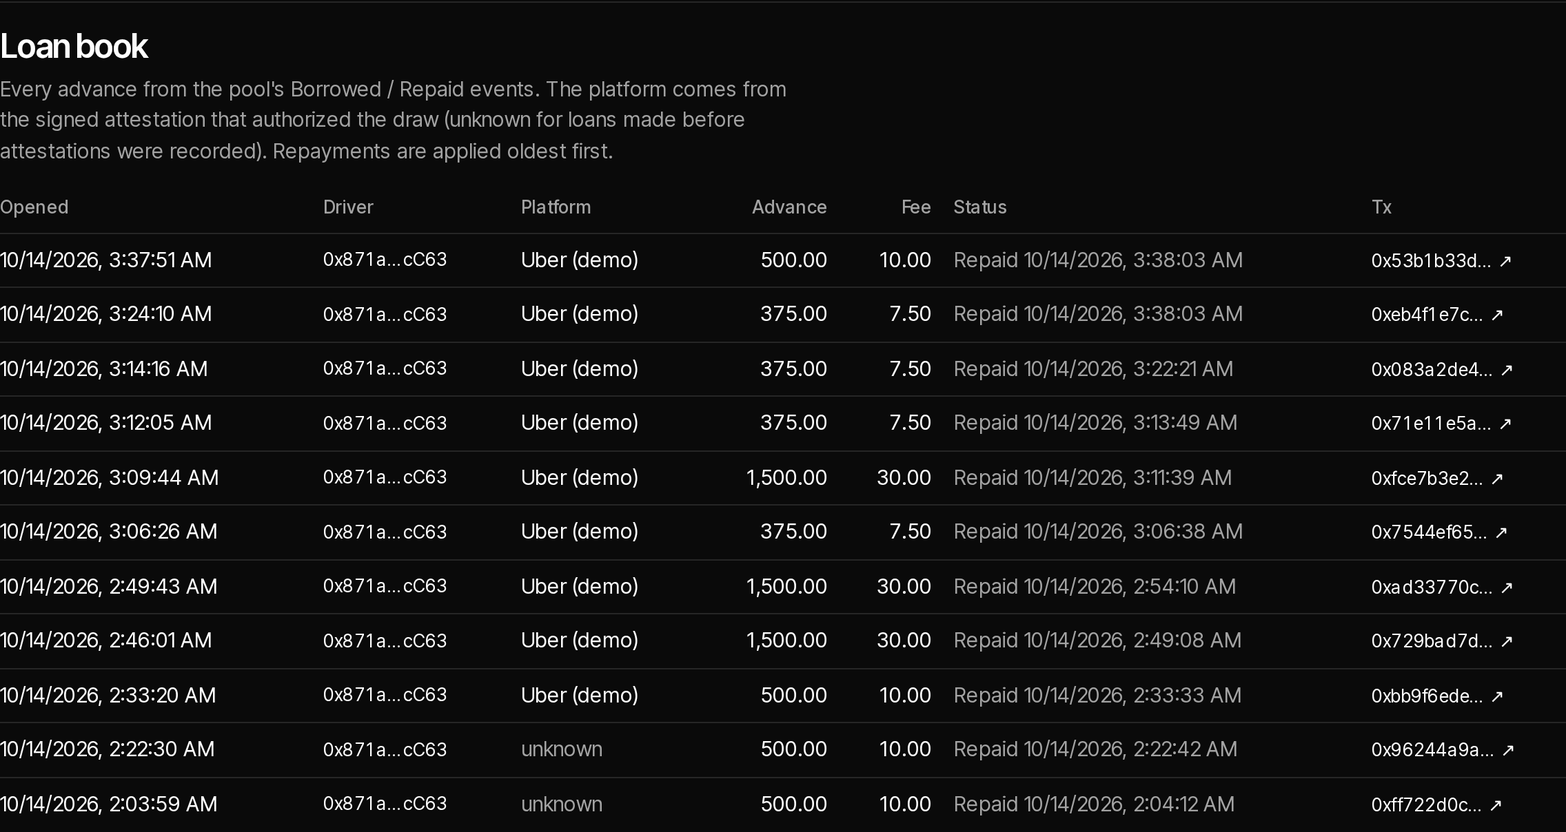
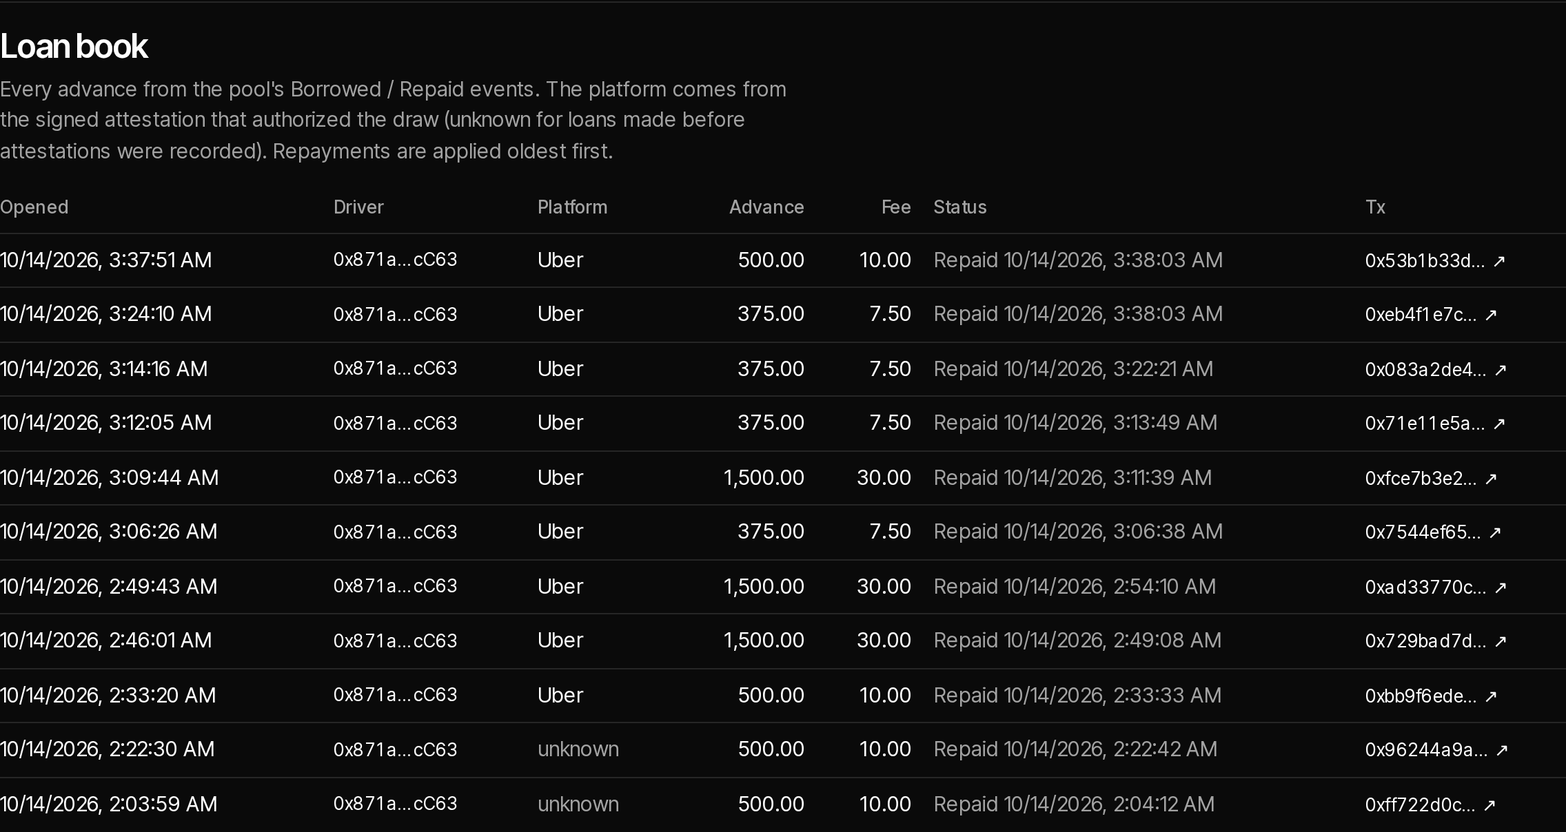
slides: place the v7 dark-theme captures (floating phones, framed panels, ≤2 per slide); proof with contracts + 402 panels; plain footers; dark home crop

diff --git a/deck/project/slides/judge-qa.html b/deck/project/slides/judge-qa.html
@@ -14,7 +14,7 @@
 <div style="display:flex;gap:24px;align-items:baseline"><p style="width:48px;font-family:'Inter Tight', Arial, sans-serif;font-size:24px;color:#E5A823">04</p><p style="flex:1;font-size:32px;font-weight:500;line-height:1.3;color:#FFFFFF">If the peso appreciates, can everyone redeem?</p></div>
 <div style="display:flex;gap:24px;align-items:baseline"><p style="width:48px;font-family:'Inter Tight', Arial, sans-serif;font-size:24px;color:#E5A823">08</p><p style="flex:1;font-size:32px;font-weight:500;line-height:1.3;color:#FFFFFF">What stops sponsor drain, and what's left before real money?</p></div>
 </div>
-<p style="position:absolute;left:128px;bottom:64px;width:1200px;font-family:'Inter Tight', Arial, sans-serif;font-size:24px;color:#8A8A8A;text-transform:uppercase;letter-spacing:3px;font-weight:600">Mercado · built on Tempo</p>
+<p style="position:absolute;left:128px;bottom:64px;width:1200px;font-family:'Inter Tight', Arial, sans-serif;font-size:24px;color:#8A8A8A;text-transform:uppercase;letter-spacing:3px;font-weight:600">Mercado</p>
 <p style="position:absolute;right:128px;bottom:64px;width:120px;font-family:'Inter Tight', Arial, sans-serif;font-size:24px;text-align:right;color:#8A8A8A;text-transform:uppercase;letter-spacing:3px;font-weight:600">A4</p>
 <aside>Appendix for Q&amp;A (from review/PRODUCT.md, v0.2). Keep answers conditional where v2 is still a proposal. 01: v1 is live on testnet: issuance, exchange inventory, unsecured lending and xMXN HTTP payment settlement. Tempo gives native token transfers, memos and fee sponsorship; MPP makes an HTTP response payable with a verified receipt. v2 adds the proposed collateral and mint/burn exchange; the design is not yet evidence of a working system. 02: The intended minter is an institution or sophisticated collateral owner; debt is in MXN, valued through an oracle. On Moderato every collateral is a test asset: no fiat redemption, no peg, no real Treasury or equity backing. The driver borrows existing xMXN; they don't open the institutional mint position. 03: Production collateral would carry its own external yield; the vault runs no strategy. Our sOUSD is a demo ERC-4626 with admin-funded accrual, not real income. Review requires donation-resistant accounting before v2 is accepted; a rising share price alone proves neither earned yield nor redeemable assets. 04: No automatic guarantee. For example, OUSD received at 18.37 MXN/USD backs the xMXN it minted only while the rate stays there: if the peso strengthens, the same OUSD covers fewer pesos, and only the equity buffer absorbs the gap. v2 must specify and enforce reserve coverage, a redemption stop or haircut, and recapitalization; until those pass stress tests the vAMM stays in progress. A circuit breaker can stop an unsafe withdrawal; it can't create missing backing. 05: v1 uses three separate pools: CDP collateral, seeded exchange inventory and lender-supplied xMXN. v2 proposes separate accounting for CDP collateral and a protocol OUSD reserve; since xMXN is fungible, redemptions must be bounded by aggregate reserve liabilities. The advance pool stays separately funded and unsecured. 06: In this demo, admin-set prices and income fixtures are explicit trust assumptions. Haircuts and debt ceilings cap exposure but can't make a made-up price or income true. Signed loan limits stop replay and over-drawing, not Sybil fraud or default. 07: It proves verified testnet settlement for the API order; airtime fulfillment is always SIMULATED. Tested single-process recovery and same-order retries avoid a second settlement; that's bounded evidence, not exactly-once. A partner paying for a quote buys the API response, not the swap or a fill after expiry. 08: The demo sponsor has target, function and spender limits, fee caps and process-local quotas; unsigned requests can still use an eligible sender's quota, and restarts reset budgets. It pays fees, not purchases. Before real money: tested v2 solvency and valuation, reliable oracles and liquidity, real asset and fulfillment arrangements, robust recovery, and legal and compliance review.</aside>
 </section>

diff --git a/deck/project/slides/proof.html b/deck/project/slides/proof.html
@@ -1,10 +1,10 @@
 <section id="proof" data-transition="fade" style="background:#0A0A0A;color:#FFFFFF;font-family:'Inter Tight', Arial, sans-serif;padding:128px 128px 160px">
 <p style="position:absolute;left:128px;top:128px;width:900px;font-family:'Inter Tight', Arial, sans-serif;font-size:24px;color:#B3B3B3;text-transform:uppercase;letter-spacing:3px;font-weight:600">■ 13 · proof</p>
-<h2 data-build-in="rise 1" style="position:absolute;left:128px;top:176px;width:1664px;font-family:'Anton', 'Arial Narrow', sans-serif;font-size:112px;font-weight:400;line-height:0.9;letter-spacing:-1px;text-transform:uppercase;color:#FFFFFF">Follow the money. <span style="color:#E5A823">Check the receipt.</span></h2>
-<p data-build-in="rise 2" style="position:absolute;left:128px;top:300px;width:1664px;font-size:32px;font-weight:500;color:#C9C9C9">Open the payment trail, contract code, and paid API responses.</p>
-<img data-build-in="fade 2" src="/_blob/2851bcdcd92e61415de79e3f6dcbeaed" alt="Mercado Contracts page: 'Cada contrato, verificado.' 13 live contracts with source verified on Sourcify, the testnet trust model and control paths per contract" style="position:absolute;left:128px;top:420px;width:808px;height:382px;object-fit:cover;border-radius:16px;border:1px solid rgba(255,255,255,0.14);box-shadow:0 24px 64px rgba(0,0,0,0.55)">
-<img data-build-in="fade 3" src="/_blob/d538a395cc110c9ecb50c7d00634874f" alt="Mercado Developers page: 'Mercado APIs over HTTP 402', pay per call with MPP, no API key, account or card" style="position:absolute;left:984px;top:420px;width:808px;height:382px;object-fit:cover;border-radius:16px;border:1px solid rgba(255,255,255,0.14);box-shadow:0 24px 64px rgba(0,0,0,0.55)">
-<p style="position:absolute;left:128px;bottom:64px;width:1200px;font-family:'Inter Tight', Arial, sans-serif;font-size:24px;color:#8A8A8A;text-transform:uppercase;letter-spacing:3px;font-weight:600">Mercado · built on Tempo</p>
+<h2 data-build-in="rise 1" style="position:absolute;left:128px;top:180px;width:1100px;font-family:'Anton', 'Arial Narrow', sans-serif;font-size:96px;font-weight:400;line-height:0.95;letter-spacing:-1px;text-transform:uppercase;color:#FFFFFF">Follow the money.<br><span style="color:#E5A823">Check the receipt.</span></h2>
+<p data-build-in="rise 2" style="position:absolute;left:128px;top:390px;width:1100px;font-size:36px;font-weight:500;line-height:1.3;color:#C9C9C9">Open the payment trail, contract code, and paid API responses.</p>
+<img data-build-in="fade 3" src="/_blob/d65192b29a311b0be1e8354470d93639" alt="Mercado Contracts page: each contract with its source verified, exact match" style="position:absolute;left:128px;top:560px;width:1164px;height:276px;object-fit:contain;border-radius:16px;border:1px solid rgba(255,255,255,0.14);box-shadow:0 24px 64px rgba(0,0,0,0.55);background:#0A0A0A">
+<img data-build-in="fade 4" src="/_blob/fe443887011dc6ed7cab53dc0d034df9" alt="Mercado Developers page: an HTTP 402 payment challenge, raw and decoded" style="position:absolute;left:1362px;top:220px;width:430px;height:660px;object-fit:contain;border-radius:16px;border:1px solid rgba(255,255,255,0.14);box-shadow:0 24px 64px rgba(0,0,0,0.55);background:#0A0A0A">
+<p style="position:absolute;left:128px;bottom:64px;width:1200px;font-family:'Inter Tight', Arial, sans-serif;font-size:24px;color:#8A8A8A;text-transform:uppercase;letter-spacing:3px;font-weight:600">Mercado</p>
 <p style="position:absolute;right:128px;bottom:64px;width:120px;font-family:'Inter Tight', Arial, sans-serif;font-size:24px;text-align:right;color:#8A8A8A;text-transform:uppercase;letter-spacing:3px;font-weight:600">13</p>
 <aside>Open a demonstrated payment, follow its receipt, and inspect the contract and its admin powers. The paid API trace separately shows the request, payment challenge, and returned response; we are showing inspectable execution, not a production security certification.</aside>
 </section>

diff --git a/deck/project/slides/p-card.html b/deck/project/slides/p-card.html
@@ -5,7 +5,8 @@
 <h2 data-build-in="rise 1" style="font-family:'Anton', 'Arial Narrow', sans-serif;font-size:88px;font-weight:400;line-height:0.95;letter-spacing:-1px;text-transform:uppercase;color:#FFFFFF">Tap to pay at the corner store.</h2>
 <p data-build-in="rise 2" style="font-size:36px;font-weight:500;line-height:1.3;color:#C9C9C9">Approve the amount. See the receipt.</p>
 </div>
-<img data-build-in="fade 4" src="/_blob/799674cfbef971fedc672f47cf441da5" data-video="/_blob/1445b77534f54d65c820a9c07a1da6a0" alt="Mercado Card in the Mercado app" style="position:absolute;left:1112px;top:300px;width:680px;height:430px;object-fit:contain;object-position:top;border-radius:16px;border:1px solid rgba(255,255,255,0.14);box-shadow:0 24px 64px rgba(0,0,0,0.55);background:#111111">
+<img data-build-in="fade 4" src="/_blob/b737d51eaf57d19382bf2e5819e41d8a" alt="" style="position:absolute;left:1112px;top:240px;width:256px;height:560px;object-fit:contain">
+<img data-build-in="fade 5" src="/_blob/799674cfbef971fedc672f47cf441da5" data-video="/_blob/1445b77534f54d65c820a9c07a1da6a0" alt="Screen recording: Javier draws an advance, his frozen card is declined, he unfreezes it and a tap payment goes through once" style="position:absolute;left:1408px;top:330px;width:384px;height:240px;object-fit:contain;border-radius:16px;border:1px solid rgba(255,255,255,0.14);box-shadow:0 24px 64px rgba(0,0,0,0.55);background:#0A0A0A">
 <p style="position:absolute;left:128px;bottom:64px;width:1200px;font-family:'Inter Tight', Arial, sans-serif;font-size:24px;color:#8A8A8A;text-transform:uppercase;letter-spacing:3px;font-weight:600">Mercado</p>
 <p style="position:absolute;right:128px;bottom:64px;width:120px;font-family:'Inter Tight', Arial, sans-serif;font-size:24px;text-align:right;color:#8A8A8A;text-transform:uppercase;letter-spacing:3px;font-weight:600">08</p>
 <aside>The same driver approves the shop and amount, and the payment moves pesos already in that wallet. A frozen card rejects the charge; this is a Mercado merchant payment flow, not an issued Visa or Mastercard.</aside>

diff --git a/deck/project/slides/j3-advance.html b/deck/project/slides/j3-advance.html
@@ -6,7 +6,8 @@
 <p data-build-in="rise 2" style="font-size:36px;font-weight:500;line-height:1.3;color:#C9C9C9">Use your earnings history to request an advance.</p>
 </div>
 <p data-build-in="rise 3" style="position:absolute;left:128px;top:700px;width:920px;font-family:'Anton', 'Arial Narrow', sans-serif;font-size:80px;font-weight:400;line-height:0.95;letter-spacing:-1px;text-transform:uppercase;color:#E36A97">Up to 1,500 pesos.</p>
-<img data-build-in="fade 4" src="/_blob/8420a4953c276f4335ce337dbdfd9748" alt="Mercado Crédito in the Mercado app" style="position:absolute;left:1112px;top:300px;width:680px;height:430px;object-fit:cover;object-position:top;border-radius:16px;border:1px solid rgba(255,255,255,0.14);box-shadow:0 24px 64px rgba(0,0,0,0.55);background:#111111">
+<img data-build-in="fade 4" src="/_blob/97a80469ede1b9a3e4f7eadca5622980" alt="" style="position:absolute;left:1180px;top:240px;width:256px;height:560px;object-fit:contain">
+<img data-build-in="fade 5" src="/_blob/62da4b713df5ec6a17481c143b73c8c5" alt="" style="position:absolute;left:1500px;top:240px;width:256px;height:560px;object-fit:contain">
 <p style="position:absolute;left:128px;bottom:64px;width:1200px;font-family:'Inter Tight', Arial, sans-serif;font-size:24px;color:#8A8A8A;text-transform:uppercase;letter-spacing:3px;font-weight:600">Mercado</p>
 <p style="position:absolute;right:128px;bottom:64px;width:120px;font-family:'Inter Tight', Arial, sans-serif;font-size:24px;text-align:right;color:#8A8A8A;text-transform:uppercase;letter-spacing:3px;font-weight:600">07</p>
 <aside>Drivers share earnings data, receive an offer, and draw from lender capital within their available limit. Our demonstrated earnings are simulated, the loan is unsecured, and repayment is manual with the fee shown before borrowing.</aside>

diff --git a/deck/project/slides/j2-send.html b/deck/project/slides/j2-send.html
@@ -6,7 +6,8 @@
 <p data-build-in="rise 2" style="font-size:36px;font-weight:500;line-height:1.3;color:#C9C9C9">Your family receives pesos straight into their wallet.</p>
 </div>
 <p data-build-in="rise 3" style="position:absolute;left:128px;top:700px;width:920px;font-family:'Anton', 'Arial Narrow', sans-serif;font-size:80px;font-weight:400;line-height:0.95;letter-spacing:-1px;text-transform:uppercase;color:#E2603F">9,149 pesos received.</p>
-<img data-build-in="fade 4" src="/_blob/8bde02557a560818c475c69518ea312d" alt="Mercado Remesas in the Mercado app" style="position:absolute;left:1112px;top:300px;width:680px;height:430px;object-fit:cover;object-position:top;border-radius:16px;border:1px solid rgba(255,255,255,0.14);box-shadow:0 24px 64px rgba(0,0,0,0.55);background:#111111">
+<img data-build-in="fade 4" src="/_blob/176dfb3b02359d644e7aa932dd427030" alt="" style="position:absolute;left:1180px;top:240px;width:256px;height:560px;object-fit:contain">
+<img data-build-in="fade 5" src="/_blob/bd53a84d14db440f6633cb960a6bb448" alt="" style="position:absolute;left:1500px;top:240px;width:256px;height:560px;object-fit:contain">
 <p style="position:absolute;left:128px;bottom:64px;width:1200px;font-family:'Inter Tight', Arial, sans-serif;font-size:24px;color:#8A8A8A;text-transform:uppercase;letter-spacing:3px;font-weight:600">Mercado</p>
 <p style="position:absolute;right:128px;bottom:64px;width:120px;font-family:'Inter Tight', Arial, sans-serif;font-size:24px;text-align:right;color:#8A8A8A;text-transform:uppercase;letter-spacing:3px;font-weight:600">05</p>
 <aside>Sending five hundred dollars quotes about nine thousand one hundred forty-nine pesos after the exchange fee and size impact. This is wallet delivery, not bank cashout; the exact amount is quoted before sending.</aside>

diff --git a/deck/project/slides/risk.html b/deck/project/slides/risk.html
@@ -5,7 +5,7 @@
 <h2 data-build-in="rise 1" style="font-family:'Anton', 'Arial Narrow', sans-serif;font-size:88px;font-weight:400;line-height:0.95;letter-spacing:-1px;text-transform:uppercase;color:#FFFFFF">Check the backing before you borrow.</h2>
 <p data-build-in="rise 2" style="font-size:36px;font-weight:500;line-height:1.3;color:#C9C9C9">A stronger peso leaves less room to borrow safely.</p>
 </div>
-<img data-build-in="fade 4" src="/_blob/5c8f64994c89242c7fc06c058aa193f1" alt="Risk in the Mercado app" style="position:absolute;left:1112px;top:300px;width:680px;height:430px;object-fit:cover;object-position:top;border-radius:16px;border:1px solid rgba(255,255,255,0.14);box-shadow:0 24px 64px rgba(0,0,0,0.55);background:#111111">
+<img data-build-in="fade 4" src="/_blob/8149ed830f1be3ee794cb3b6aa997d45" alt="" style="position:absolute;left:128px;top:640px;width:1664px;height:229px;object-fit:contain;border-radius:16px;border:1px solid rgba(255,255,255,0.14);box-shadow:0 24px 64px rgba(0,0,0,0.55);background:#0A0A0A">
 <p style="position:absolute;left:128px;bottom:64px;width:1200px;font-family:'Inter Tight', Arial, sans-serif;font-size:24px;color:#8A8A8A;text-transform:uppercase;letter-spacing:3px;font-weight:600">Mercado</p>
 <p style="position:absolute;right:128px;bottom:64px;width:120px;font-family:'Inter Tight', Arial, sans-serif;font-size:24px;text-align:right;color:#8A8A8A;text-transform:uppercase;letter-spacing:3px;font-weight:600">12</p>
 <aside>Peso debt gets harder to cover when the peso strengthens against dollar-valued collateral, so the app shows the effect on backing and individual positions. Positions can be liquidated and exchange redemptions can be restricted or take a haircut; owner-controlled prices and settings remain part of the trust model.</aside>

diff --git a/deck/project/slides/p-global.html b/deck/project/slides/p-global.html
@@ -6,7 +6,7 @@
 <p data-build-in="rise 2" style="font-size:36px;font-weight:500;line-height:1.3;color:#C9C9C9">Send dollars. Deliver pesos straight to their wallet.</p>
 </div>
 <p data-build-in="rise 3" style="position:absolute;left:128px;top:700px;width:920px;font-family:'Anton', 'Arial Narrow', sans-serif;font-size:80px;font-weight:400;line-height:0.95;letter-spacing:-1px;text-transform:uppercase;color:#6F8BF0">176,297 pesos delivered.</p>
-<img data-build-in="fade 4" src="/_blob/a7961f3aa32075face1cba3ced2ab79f" alt="Mercado Global in the Mercado app" style="position:absolute;left:1112px;top:300px;width:680px;height:430px;object-fit:cover;object-position:top;border-radius:16px;border:1px solid rgba(255,255,255,0.14);box-shadow:0 24px 64px rgba(0,0,0,0.55);background:#111111">
+<img data-build-in="fade 4" src="/_blob/f1a39cfb6ae48ac4e30c77ce7ec01636" alt="" style="position:absolute;left:1112px;top:220px;width:626px;height:640px;object-fit:contain;border-radius:16px;border:1px solid rgba(255,255,255,0.14);box-shadow:0 24px 64px rgba(0,0,0,0.55);background:#0A0A0A">
 <p style="position:absolute;left:128px;bottom:64px;width:1200px;font-family:'Inter Tight', Arial, sans-serif;font-size:24px;color:#8A8A8A;text-transform:uppercase;letter-spacing:3px;font-weight:600">Mercado</p>
 <p style="position:absolute;right:128px;bottom:64px;width:120px;font-family:'Inter Tight', Arial, sans-serif;font-size:24px;text-align:right;color:#8A8A8A;text-transform:uppercase;letter-spacing:3px;font-weight:600">06</p>
 <aside>Ten thousand dollars quotes about one hundred seventy-six thousand two hundred ninety-seven pesos in the current example. Buying a signed quote pays for an API response; moving the supplier's money is a separate action.</aside>

diff --git a/deck/project/slides/j1-mint.html b/deck/project/slides/j1-mint.html
@@ -5,7 +5,7 @@
 <h2 data-build-in="rise 1" style="font-family:'Anton', 'Arial Narrow', sans-serif;font-size:88px;font-weight:400;line-height:0.95;letter-spacing:-1px;text-transform:uppercase;color:#FFFFFF">Deposit collateral. Issue pesos.</h2>
 <p data-build-in="rise 2" style="font-size:36px;font-weight:500;line-height:1.3;color:#C9C9C9">Keep earning on assets that pay yield.</p>
 </div>
-<img data-build-in="fade 4" src="/_blob/154c24bb7c0e4698024fa244151a5124" alt="Mercado Mint in the Mercado app" style="position:absolute;left:1112px;top:300px;width:680px;height:430px;object-fit:cover;object-position:top;border-radius:16px;border:1px solid rgba(255,255,255,0.14);box-shadow:0 24px 64px rgba(0,0,0,0.55);background:#111111">
+<img data-build-in="fade 4" src="/_blob/8149ed830f1be3ee794cb3b6aa997d45" alt="" style="position:absolute;left:128px;top:640px;width:1664px;height:229px;object-fit:contain;border-radius:16px;border:1px solid rgba(255,255,255,0.14);box-shadow:0 24px 64px rgba(0,0,0,0.55);background:#0A0A0A">
 <p style="position:absolute;left:128px;bottom:64px;width:1200px;font-family:'Inter Tight', Arial, sans-serif;font-size:24px;color:#8A8A8A;text-transform:uppercase;letter-spacing:3px;font-weight:600">Mercado</p>
 <p style="position:absolute;right:128px;bottom:64px;width:120px;font-family:'Inter Tight', Arial, sans-serif;font-size:24px;text-align:right;color:#8A8A8A;text-transform:uppercase;letter-spacing:3px;font-weight:600">04</p>
 <aside>Institutions keep eligible collateral in a vault and borrow newly issued pesos against it; yield-bearing collateral can keep accruing while deposited. This is secured debt, and a position can be liquidated if its backing falls too far.</aside>

diff --git a/deck/project/slides/p-invest.html b/deck/project/slides/p-invest.html
@@ -6,7 +6,7 @@
 <p data-build-in="rise 2" style="font-size:36px;font-weight:500;line-height:1.3;color:#C9C9C9">Choose where to put your money to work.</p>
 </div>
 <p data-build-in="rise 3" style="position:absolute;left:128px;top:700px;width:920px;font-family:'Anton', 'Arial Narrow', sans-serif;font-size:80px;font-weight:400;line-height:0.95;letter-spacing:-1px;text-transform:uppercase;color:#E5A823">Five percent a year in dollars.</p>
-<img data-build-in="fade 4" src="/_blob/96fb1503daf6e49ef955d54fa746faa2" alt="Mercado Invest in the Mercado app" style="position:absolute;left:1112px;top:300px;width:680px;height:430px;object-fit:cover;object-position:top;border-radius:16px;border:1px solid rgba(255,255,255,0.14);box-shadow:0 24px 64px rgba(0,0,0,0.55);background:#111111">
+<img data-build-in="fade 4" src="/_blob/a04032737dbba95697770fe787a4e094" alt="" style="position:absolute;left:1340px;top:240px;width:256px;height:560px;object-fit:contain">
 <p style="position:absolute;left:128px;bottom:64px;width:1200px;font-family:'Inter Tight', Arial, sans-serif;font-size:24px;color:#8A8A8A;text-transform:uppercase;letter-spacing:3px;font-weight:600">Mercado</p>
 <p style="position:absolute;right:128px;bottom:64px;width:120px;font-family:'Inter Tight', Arial, sans-serif;font-size:24px;text-align:right;color:#8A8A8A;text-transform:uppercase;letter-spacing:3px;font-weight:600">09</p>
 <aside>The dollar vault is configured at five percent a year and the peso vault at eight percent, paid only while their funded demo reserves last. The stocks option is Mercado's equity-index token with an owner-set price and no underlying equities; it does not earn either savings rate.</aside>

diff --git a/deck/project/slides/j5-agent.html b/deck/project/slides/j5-agent.html
@@ -26,7 +26,7 @@ var L=[].slice.call(document.querySelectorAll('.l'));
 function run(){L.forEach(function(e){e.classList.remove('on')});L.forEach(function(e,i){setTimeout(function(){e.classList.add('on')},500+i*1100)})}
 run();setInterval(run,11000);
 </script></body></html></x-embed>
-<p style="position:absolute;left:128px;bottom:64px;width:1200px;font-family:'Inter Tight', Arial, sans-serif;font-size:24px;color:#8A8A8A;text-transform:uppercase;letter-spacing:3px;font-weight:600">Mercado · built on Tempo</p>
+<p style="position:absolute;left:128px;bottom:64px;width:1200px;font-family:'Inter Tight', Arial, sans-serif;font-size:24px;color:#8A8A8A;text-transform:uppercase;letter-spacing:3px;font-weight:600">Mercado</p>
 <p style="position:absolute;right:128px;bottom:64px;width:120px;font-family:'Inter Tight', Arial, sans-serif;font-size:24px;text-align:right;color:#8A8A8A;text-transform:uppercase;letter-spacing:3px;font-weight:600">A5</p>
 <aside>Appendix (the underwriting API on the Crédito slide, in detail). The same 402 rail works between machines. A brand-new bot wallet, funded from the faucet with no API key, account or signup, asks Mercado's score API for an underwriting report. It gets a 402 for 2 xMXN, pays on Tempo with a transfer bound to the challenge, and gets the report back with a Payment-Receipt. The report is the illustrative score on Demo Uber Data, and it never includes a borrow attestation: only the borrower's own session gets one. Live on Moderato; transcript in scripts/evidence/underwriter-agent.txt.</aside>
 </section>

diff --git a/deck/project/slides/next.html b/deck/project/slides/next.html
@@ -29,7 +29,7 @@
 <p style="font-size:24px;line-height:1.45;color:#999999">Mexican lending, money transmission, AML/KYC and privacy, before any real money.</p>
 </div>
 </div>
-<p style="position:absolute;left:128px;bottom:64px;width:1200px;font-family:'Inter Tight', Arial, sans-serif;font-size:24px;color:#8A8A8A;text-transform:uppercase;letter-spacing:3px;font-weight:600">Mercado · built on Tempo</p>
+<p style="position:absolute;left:128px;bottom:64px;width:1200px;font-family:'Inter Tight', Arial, sans-serif;font-size:24px;color:#8A8A8A;text-transform:uppercase;letter-spacing:3px;font-weight:600">Mercado</p>
 <p style="position:absolute;right:128px;bottom:64px;width:120px;font-family:'Inter Tight', Arial, sans-serif;font-size:24px;text-align:right;color:#8A8A8A;text-transform:uppercase;letter-spacing:3px;font-weight:600">A3</p>
 <aside>Appendix: skip in the 3-minute pitch; use for Q&amp;A. Each item is something we deliberately deferred. Real fiat-backed issuance and redemption, a real airtime and bill aggregator (these need commercial onboarding and fiat working balances), Uber driver OAuth with restricted scopes that Uber must approve, a verified FX feed, and SPEI cash-out to Mexican bank accounts. (The paid score endpoint already works: see the machine-to-machine slide.) None of this touches real customers or money until Mexican legal and compliance specialists have reviewed it.</aside>
 </section>

diff --git a/deck/project/slides/architecture.html b/deck/project/slides/architecture.html
@@ -33,7 +33,7 @@
 <p style="font-family:'Inter Tight', Arial, sans-serif;font-size:24px;line-height:1.4;color:#999999">locked OUSD · own desk reserves · lender cash</p>
 </div>
 </div>
-<p style="position:absolute;left:128px;bottom:64px;width:1200px;font-family:'Inter Tight', Arial, sans-serif;font-size:24px;color:#8A8A8A;text-transform:uppercase;letter-spacing:3px;font-weight:600">Mercado · built on Tempo</p>
+<p style="position:absolute;left:128px;bottom:64px;width:1200px;font-family:'Inter Tight', Arial, sans-serif;font-size:24px;color:#8A8A8A;text-transform:uppercase;letter-spacing:3px;font-weight:600">Mercado</p>
 <p style="position:absolute;right:128px;bottom:64px;width:120px;font-family:'Inter Tight', Arial, sans-serif;font-size:24px;text-align:right;color:#8A8A8A;text-transform:uppercase;letter-spacing:3px;font-weight:600">A1</p>
 <aside>Appendix: skip in the 3-minute pitch; use for Q&amp;A. Left to right: people connect a Tempo Wallet, a passkey, or a demo persona. The Next.js app talks to four server routes and five contracts on Tempo Moderato. The key point is the three pots: vault collateral, swap-desk inventory and credit-pool cash are funded separately, so the vault never pays for a swap or a loan. Amber marks the pots and the mocks; the FX feed is an admin mock on testnet. /api/sponsor pays fees for Mercado calls so new wallets need no gas token.</aside>
 </section>
